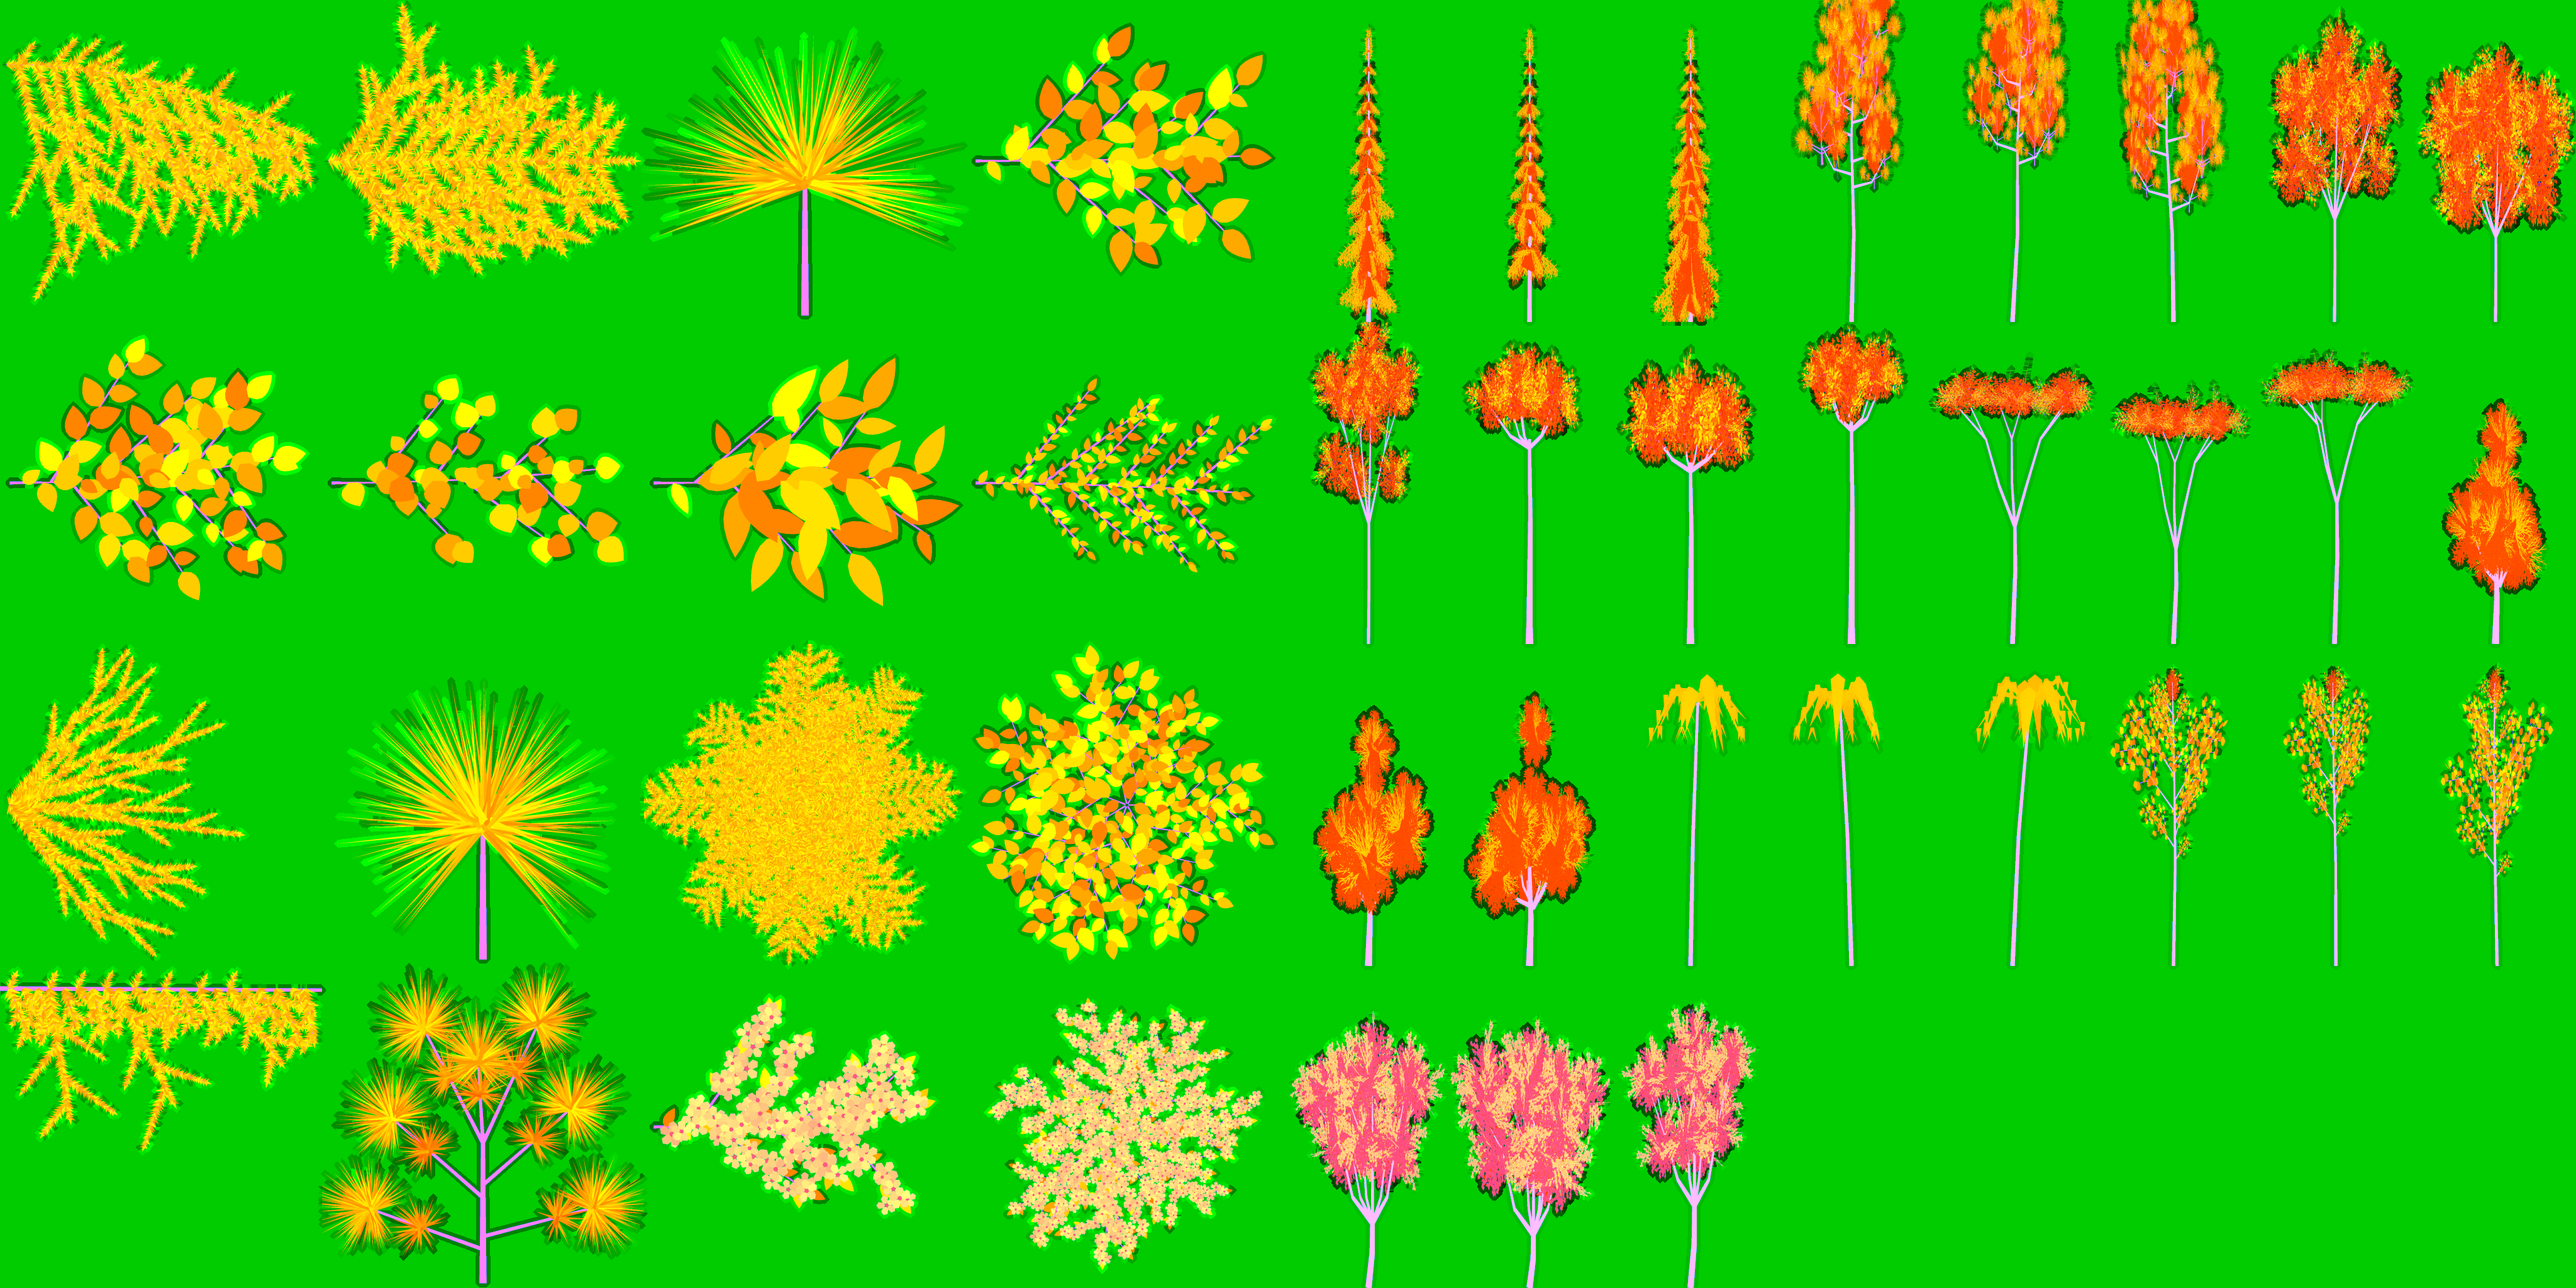
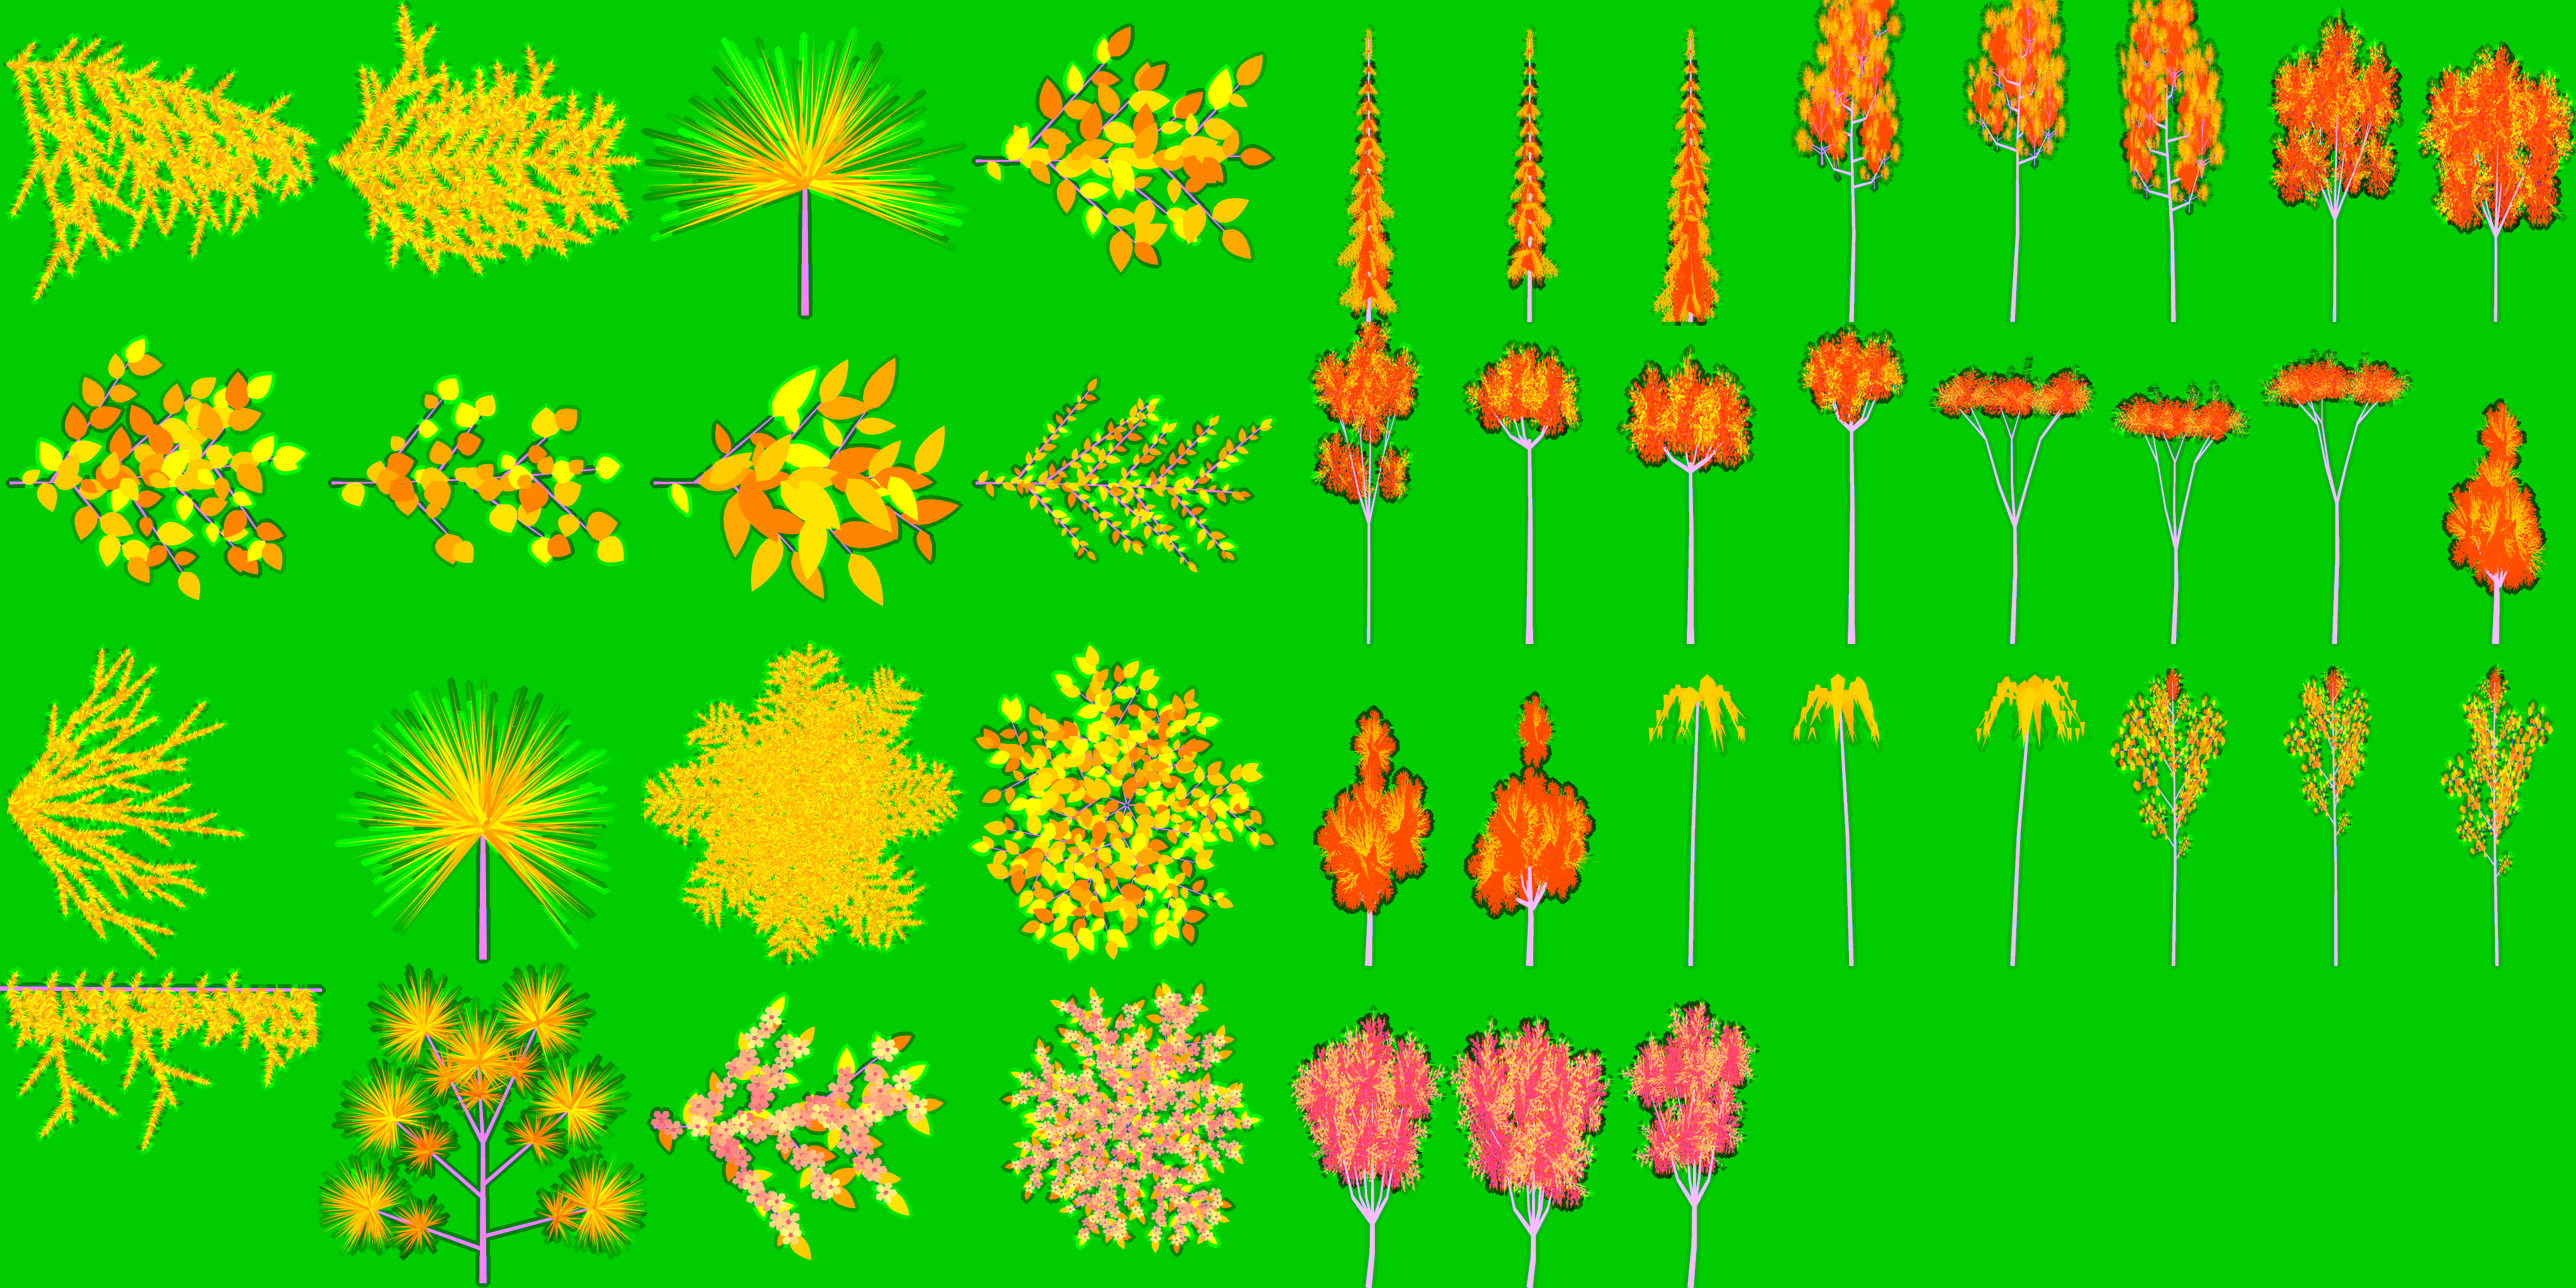
Trees refined: blossom from a deep tone inside to near white at the tips with young leaves among it; lying petals on the grass's tips, in a ring under the crown's edge and down the wind; a petal near the eye is large
Claude-Session: https://claude.ai/code/session_01XG1DZ6z4HnMC6bjsyXexux

Changed region(s): [[0.25, 0.75, 0.6875, 1.0]]

diff --git a/src/life/leaves.js b/src/life/leaves.js
@@ -7,6 +7,7 @@
 import * as THREE from 'three';
 import { LIGHTING_PARS, lightingUniforms } from '../render/lightingGlsl.js';
 import { atmosphereDefines } from '../atmosphere/atmosphere.js';
+import { AMOUNT } from './grassRules.js';
 
 const COUNT = 420, BOX = 44;            // leaves, and the side of the square of ground they fall over (m)
 
@@ -106,7 +107,7 @@ export class Leaves {
 // on the ground as it is drawn (a few of them a frame are asked where the ground is).
 // What carries a falling petal is the wind's velocity, eased over a few seconds here
 // (never the wind's speed times the clock: a change of wind would move every petal at once).
-const FALLING = 640, LYING = 320, SLOTS = 8, PER_FRAME = 8;
+const FALLING = 640, LYING = 480, SLOTS = 8, PER_FRAME = 6;
 
 export class Petals {
   constructor(trees) {
@@ -140,7 +141,7 @@ export class Petals {
       void place(vec3 rel, float fade, float size) {
         vRel = rel; vSeed = aSeed; vFade = fade;
         vec4 clip = projectionMatrix * viewMatrix * vec4(rel, 1.0);
-        gl_PointSize = clamp(size * uLeafPx / max(clip.w, 0.3), 1.5, 28.0);
+        gl_PointSize = clamp(size * uLeafPx / max(clip.w, 0.3), 1.5, 56.0);          // (one that passes close to the eye is large on the screen: that is where petals are seen)
         // (nothing of it: out of the picture, not a point of no size)
         gl_Position = fade > 0.02 ? clip : vec4(2.0, 2.0, 2.0, 1.0);
       }`;
@@ -172,9 +173,9 @@ export class Petals {
         // from somewhere in the crown
         vec2 r = fract(aSeed.xy + lap * vec2(0.618034, 0.754878));
         float ang = r.x * 6.2831853, rad = tr.w * sqrt(r.y) * 0.95, y0 = top.x * (0.42 + 0.5 * fract(aSeed.x * 7.0 + lap * 0.21));
-        float h = y0 - (0.8 + 0.6 * aSeed.y) * age;
+        float h = y0 - (0.55 + 0.5 * aSeed.y) * age;
         // down the wind as it falls (the wind is slower in among the trees than over them), swinging side to side
-        vec3 drift = (uPetalWind - uLeafUp * dot(uPetalWind, uLeafUp)) * (0.55 * age);
+        vec3 drift = (uPetalWind - uLeafUp * dot(uPetalWind, uLeafUp)) * (0.75 * age);
         vec2 swing = vec2(sin(t * 31.0 + aSeed.x * 9.0), cos(t * 23.0 + aSeed.y * 7.0)) * (0.25 + 0.06 * age);
         vec3 rel = uAnchorRel + tr.xyz + uLeafEast * (cos(ang) * rad + swing.x) + uLeafNorth * (sin(ang) * rad + swing.y) + uLeafUp * (h + 0.03) + drift;
         vSpin = t * (50.0 + 70.0 * aSeed.x);
@@ -230,13 +231,18 @@ export class Petals {
       const i = this.next++, f = this.feet[i % SLOTS];
       if (!f) continue;
       // under the crown and a little beyond it, more of them down the wind
-      const ang = seed[i * 4] * 6.2831853, rad = f[3] * 1.25 * Math.sqrt(seed[i * 4 + 1]), wl = this._wind.length() || 1, down = Math.min(1, wl / 6) * f[3] * 0.6 * seed[i * 4 + 3];
+      // (thickest in a ring under the crown's edge: two in three lie there, the rest anywhere under it)
+      const ring = seed[i * 4 + 2] < 0.67, ang = seed[i * 4] * 6.2831853, rad = f[3] * (ring ? 1 + 0.4 * (seed[i * 4 + 1] + ((seed[i * 4 + 3] * 7) % 1) - 1) : 1.1 * Math.sqrt(seed[i * 4 + 1])), wl = this._wind.length() || 1, down = Math.min(1, wl / 6) * f[3] * 0.9 * seed[i * 4 + 3];
       const ox = Math.cos(ang) * rad, oy = Math.sin(ang) * rad;
       let x = f[0] + e.x * ox + n.x * oy + this._wind.x / wl * down, y = f[1] + e.y * ox + n.y * oy + this._wind.y / wl * down, z = f[2] + e.z * ox + n.z * oy + this._wind.z / wl * down;
       const l = Math.hypot(x, y, z); d[0] = x / l; d[1] = y / l; d[2] = z / l;
       const g = this.terrain.drawnHeight(d, rig.pos.length());
       if (g == null) { this.next--; break; }          // (no ground drawn there yet: again next frame)
-      const r = R + g + 0.03;
+      // Where grass grows a petal lies on the grass, not under it: lifted to the turf's top (by
+      // the grass's own rule for how much grows on this kind of land, and a share of a blade's
+      // height: life/grass.js), each to a height of its own, so they lie in among the tips.
+      const hs = this.terrain.hs, cover = hs?.coverAt ? hs.coverAt(d[0], d[1], d[2]) : -1, amount = cover < 0 ? 0 : (AMOUNT[cover & 255] || 0) * (1 - 0.4 * (cover >> 16) / 255);
+      const r = R + g + (amount > 0.05 ? (0.2 + 0.26 * seed[i * 4 + 3]) * (0.6 + 0.6 * amount) : 0.03);
       this.abs[i * 3] = d[0] * r; this.abs[i * 3 + 1] = d[1] * r; this.abs[i * 3 + 2] = d[2] * r; this.put[i] = 1;
       lie.array[i * 4] = d[0] * r - A.x; lie.array[i * 4 + 1] = d[1] * r - A.y; lie.array[i * 4 + 2] = d[2] * r - A.z; lie.array[i * 4 + 3] = 1; changed = true;
     }

diff --git a/src/life/treeAtlasGen.js b/src/life/treeAtlasGen.js
@@ -160,7 +160,7 @@ function leafy(c, R, o) {
     for (let d = o.step * (0.4 + 0.4 * R()); d < l; d += o.step * (0.8 + 0.4 * R())) {
       const t = d / l, x = x0 + dx * t, y = y0 + dy * t;
       leaves.push([x, y, dir + sd * (0.45 + 0.9 * R()), o.leaf * (0.6 + 0.7 * R())]); sd = -sd;
-      if (o.flowers) for (let k = 0; k < o.flowers; k++) flowers.push([x + (R() - 0.5) * 0.07, y + (R() - 0.5) * 0.07, 0.028 + 0.014 * R(), R() * 6.28, 0.8 + 0.2 * R()]);
+      if (o.flowers) for (let k = 0; k < o.flowers; k++) flowers.push([x + (R() - 0.5) * 0.07, y + (R() - 0.5) * 0.07, 0.028 + 0.014 * R(), R() * 6.28, 0.42 + 0.3 * R() + 0.28 * t]);          // (deeper near the twig's root, paler toward its end)
     }
     leaves.push([x1, y1, dir + (R() - 0.5) * 0.4, o.leaf * (0.9 + 0.3 * R())]);
     if (o.flowers) flowers.push([x1, y1, 0.036, R() * 6.28, 1]);
@@ -192,7 +192,7 @@ function rosette(c, R, draw, n) {
   c.xf = null;
 }
 
-const BLOSSOM = { leaf: 0.06, ratio: 0.5, step: 0.07, twigs: 7, flowers: 3 };
+const BLOSSOM = { leaf: 0.085, ratio: 0.5, step: 0.07, twigs: 7, flowers: 2 };          // (a few young leaves among the flowers)
 const DRAW = {
   fir: (c, R) => fir(c, R), firTop: (c, R) => firTop(c, R), firHang: (c, R) => firHang(c, R),
   pine: (c, R) => burst(c, R, 150, 2.0, 0.44), pine2: (c, R) => burst(c, R, 190, 2.5, 0.4), pineTwig: (c, R) => pineTwig(c, R),

diff --git a/src/life/trees.js b/src/life/trees.js
@@ -214,7 +214,11 @@ export class Trees {
             if (uPaint.x > 0.0) leafC = paintLeaf(leafC) * mix(0.5, 1.12, smoothstep(-0.5, 0.6, dot(N, up)));
             leafC *= 0.46 + 0.6 * cut.g;
             // (petals: their own colour, pale and bright whatever the leaf's green is)
-            leafC = mix(leafC, vBloom.rgb * (0.62 + 0.38 * cut.g), petal);
+            // From a deep tone of it inside the crown and on its under side to near white on the
+            // flowers at the sprays' tips and where the crown looks up at the sky (the picture's
+            // tone says which flower: the last of a twig is its lightest).
+            float pale = clamp(smoothstep(0.45, 1.0, cut.g) * 0.75 + smoothstep(-0.3, 0.7, dot(N, up)) * 0.5 - (vLeaf > 3.1 && vLeaf < 3.5 ? 0.5 : 0.0), 0.0, 1.0);
+            leafC = mix(leafC, mix(vBloom.rgb * vec3(0.62, 0.5, 0.56), mix(vBloom.rgb, vec3(0.8, 0.78, 0.76), 0.72), pale), petal);
           }
           // (the heart of a bunch: the dark inside of the crown, see Shape.heart in treeGeometry.js)
           bool heart = (vLeaf > 3.1 && vLeaf < 3.5) || (vLeaf > 1.1 && vLeaf < 1.5);
